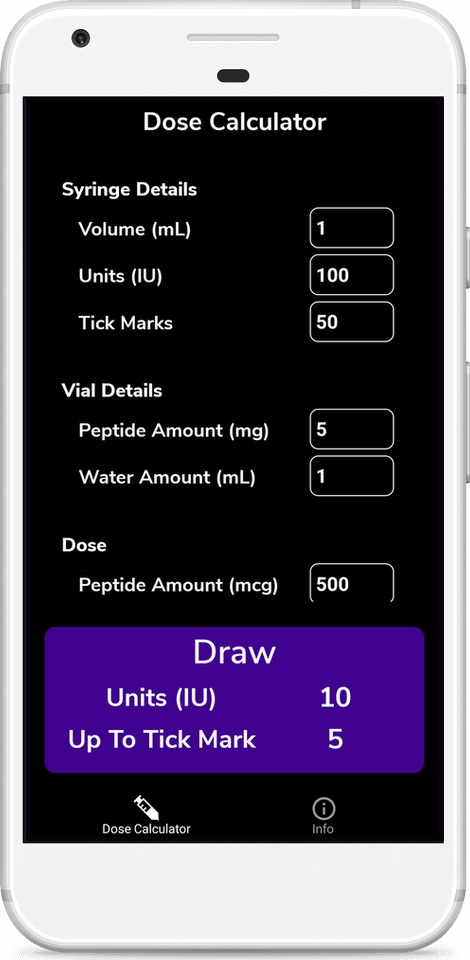
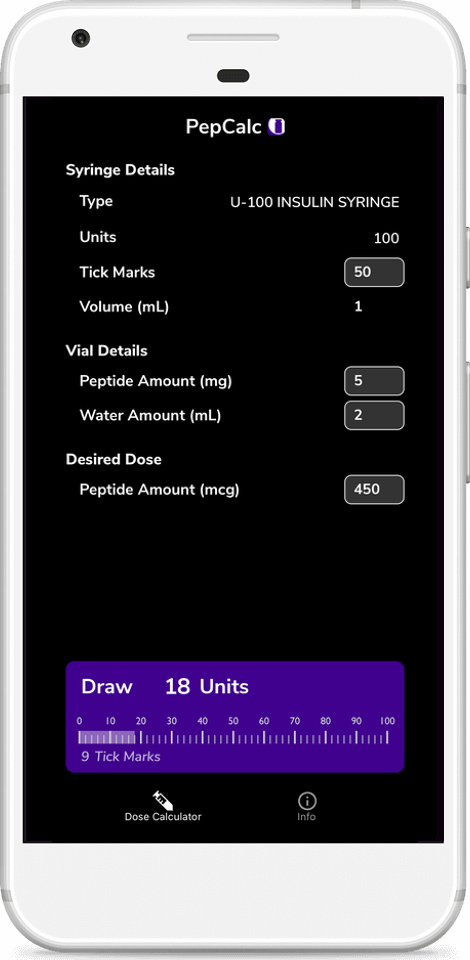
updated PepCalc images and page copy

diff --git a/pepcalc-peptide-calculator/index.html b/pepcalc-peptide-calculator/index.html
@@ -12,7 +12,7 @@
     <meta charset="utf-8" />
     <meta
       name="description"
-      content="PepCalc is an easy to use peptide calculator app that determines how many IUs or tick marks to measure in an insulin syringe of any size after reconstitution of research peptides. Available on iOS and Android!"
+      content="PepCalc is an easy to use peptide calculator app that determines how many milligrams of research peptides are in each unit or tick mark of an insulin or tuberculin syringe after reconstitution. It’s the easiest way to accurately calculate peptide doses. Available on iOS and Android!"
     />
     <meta name="author" content="Awesome Labs, LLC" />
     <link
@@ -24,11 +24,11 @@
     <meta property="og:title" content="Peptide Calculator App for iOS and Android - PepCalc" />
     <meta
       property="og:description"
-      content="PepCalc is an easy to use peptide calculator app that determines how many IUs or tick marks to measure in an insulin syringe of any size after reconstitution of research peptides. Available on iOS and Android!"
+      content="PepCalc is an easy to use peptide calculator app that determines how many milligrams of research peptides are in each unit or tick mark of an insulin or tuberculin syringe after reconstitution. It’s the easiest way to accurately calculate peptide doses. Available on iOS and Android!"
     />
     <meta
       property="og:image"
-      content="https://isjustawesome.com/pepcalc-peptide-calculator/images/social/pepcalc_facebook_newsfeed.png?v=3"
+      content="https://isjustawesome.com/pepcalc-peptide-calculator/images/social/pepcalc_social_share.png?v=1"
     />
     <meta
       property="og:url"
@@ -155,16 +155,17 @@
         <div class="row contents">
           <div class="home-content-left">
             <h1 data-aos="fade-up">PepCalc</h1>
-            <p data-aos="fade-up" class="lead">
+            <h2 data-aos="fade-up" class="lead">
               Simple peptide reconstitution<br />
               and dose calculator.
-            </p>
+            </h2>
 
             <p data-aos="fade-up" style="text-align: justify">
-              PepCalc is an easy to use peptide calculator that determines how
-              many IUs or tick marks to measure in an insulin syringe of any
-              size after reconstitution of research peptides. A great tool for
-              measuring peptide doses.
+              PepCalc is an easy to use peptide calculator that determines 
+              how many milligrams (mg) of research peptides are in each unit 
+              or tick mark of an insulin or tuberculin (non-insulin) syringe 
+              after reconstitution. It’s the easiest way to accurately calculate 
+              peptide doses!
             </p>
 
             <div
@@ -222,21 +223,27 @@
     <section id="about">
       <div class="row">
         <div class="col-twelve">
-          <h2 class="intro-header">Features</h2>
+          <h2 class="intro-header">PepCalc Peptide Calculator Features</h2>
           <ul>
             <li>
-              Fully configurable - enter syringe volume, quantity of peptides,
-              volume of sterile or bacteriostatic water, and desired dosage
+              <strong>Syringe type selection.</strong> Choose between U100 and U40 insulin syringes 
+              and PepCalc will automatically set the correct volume, or select tuberculin 
+              (non-insulin) syringe to get complete control of the inputs
+            </li>
+            <li>             
+              <strong>Fully configurable.</strong> Specify units, tick marks, quantity of peptide, 
+              volume of sterile or bacteriostatic water, and desired dose
             </li>
             <li>
-              Includes conversion tools to calculate between milligrams (MG),
-              micrograms (MCG or ug), milliliters (mL), and microliters (uL)
+              <strong>PepCalc has a memory!</strong> Last input values are remembered so they 
+              appear the next time the app is opened. No more unnecessary retyping!
             </li>
-            <li>No signup required and no ads!</li>
+            <li><strong>No signup</strong> required and <strong>no ads</strong>!</li>
           </ul>
 
           <br />
 
+          <br />
           <p>
             <em>
               PepCalc is intended for informational purposes only and is not a
@@ -276,7 +283,7 @@
                   class="smoothscroll"
                   href="#home"
                   title="PepCalc Peptide Calculator"
-                  >PepCalc</a
+                  >PepCalc Peptide Calculator</a
                 >
               </li>
             </ul>

diff --git a/awesome-breathing/index.html b/awesome-breathing/index.html
@@ -331,7 +331,7 @@
                 <a
                   href="../pepcalc-peptide-calculator/"
                   title="PepCalc Peptide Calculator"
-                  >PepCalc</a
+                  >PepCalc Peptide Calculator</a
                 >
               </li>
             </ul>

diff --git a/awesome-meal-tracking/index.html b/awesome-meal-tracking/index.html
@@ -317,7 +317,7 @@
                 <a
                   href="../pepcalc-peptide-calculator/"
                   title="PepCalc Peptide Calculator"
-                  >PepCalc</a
+                  >PepCalc Peptide Calculator</a
                 >
               </li>
             </ul>
